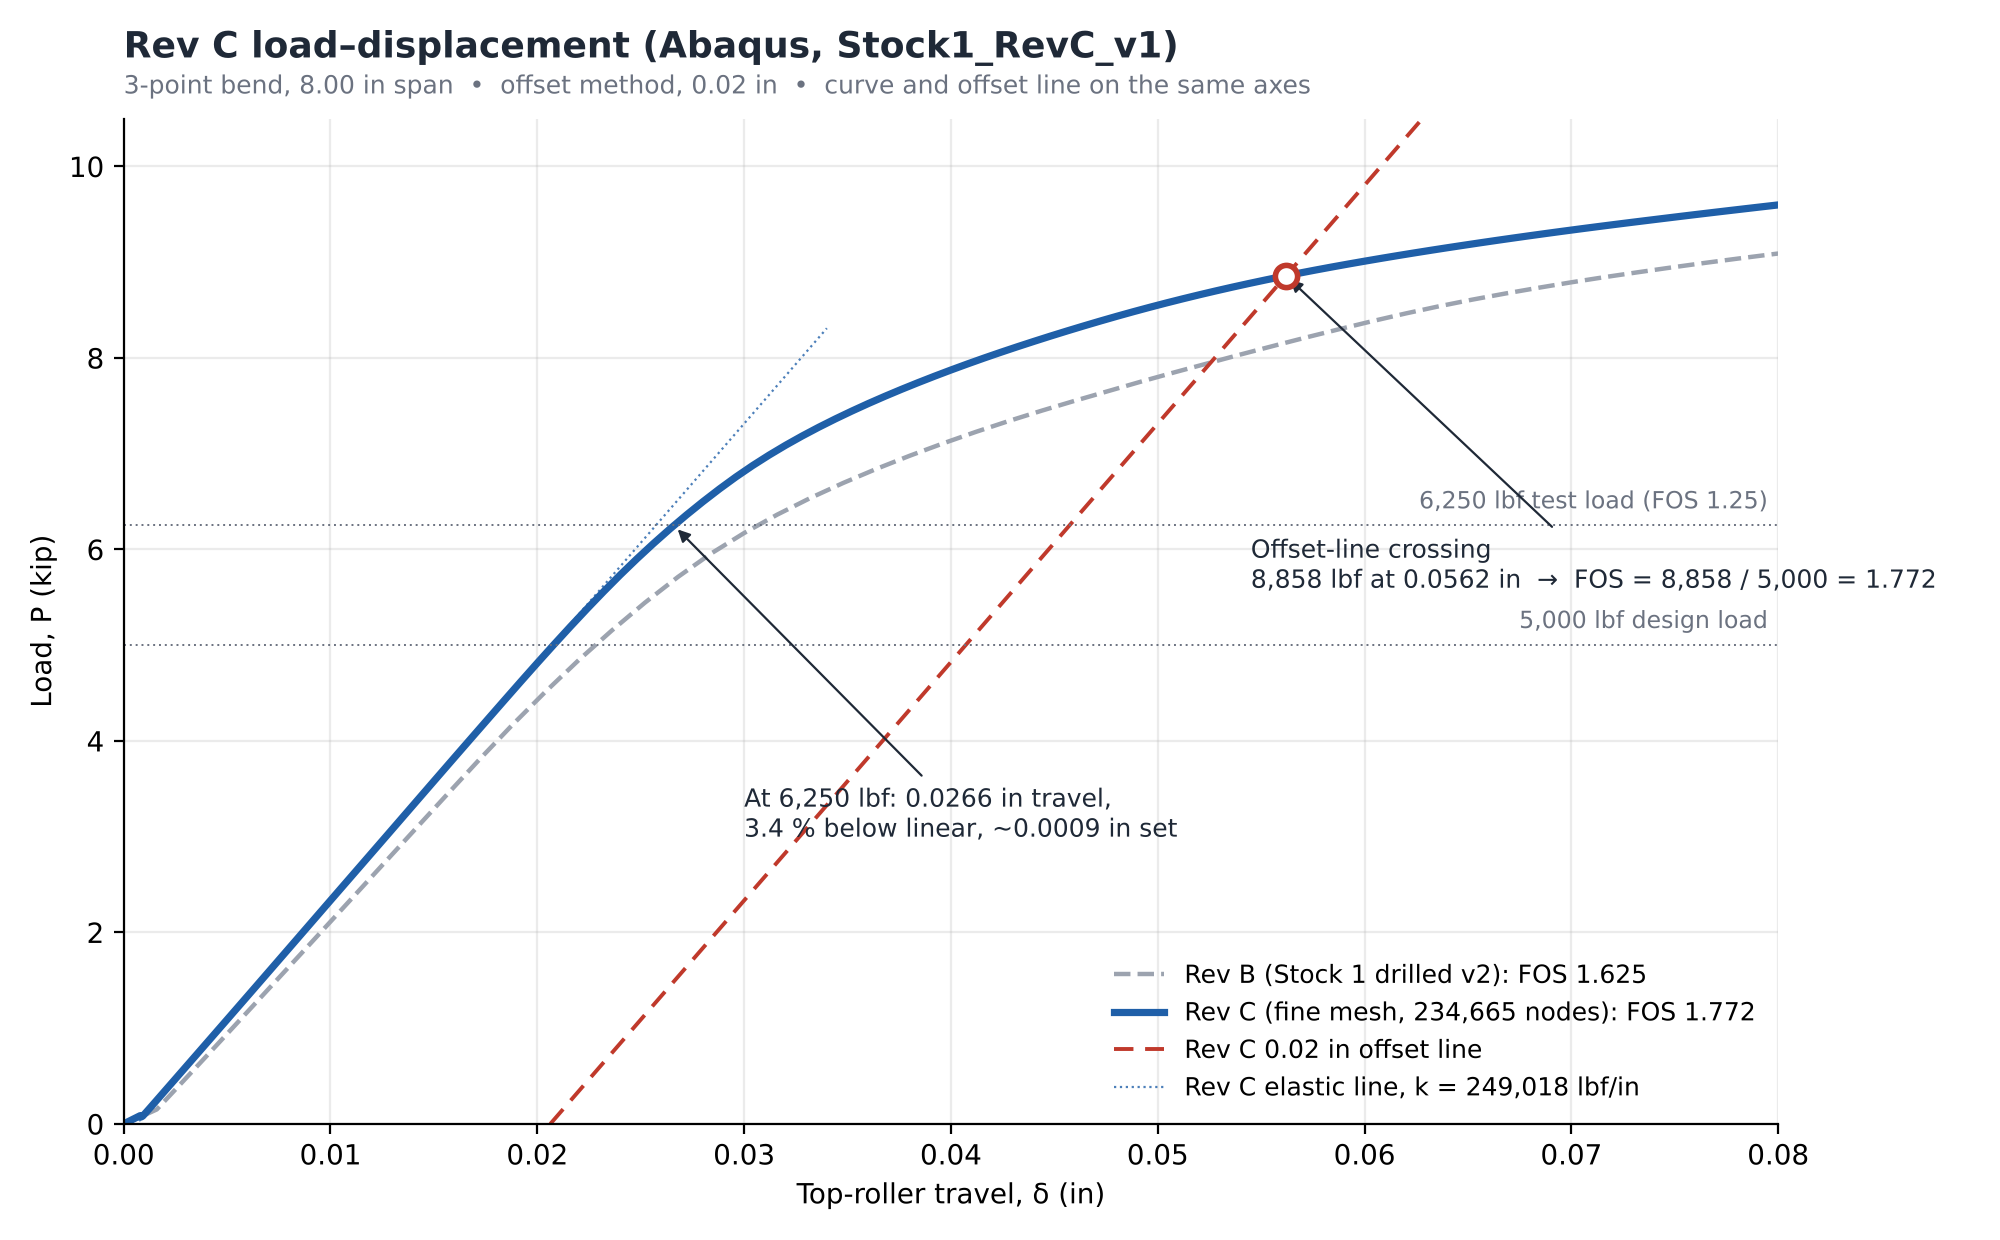
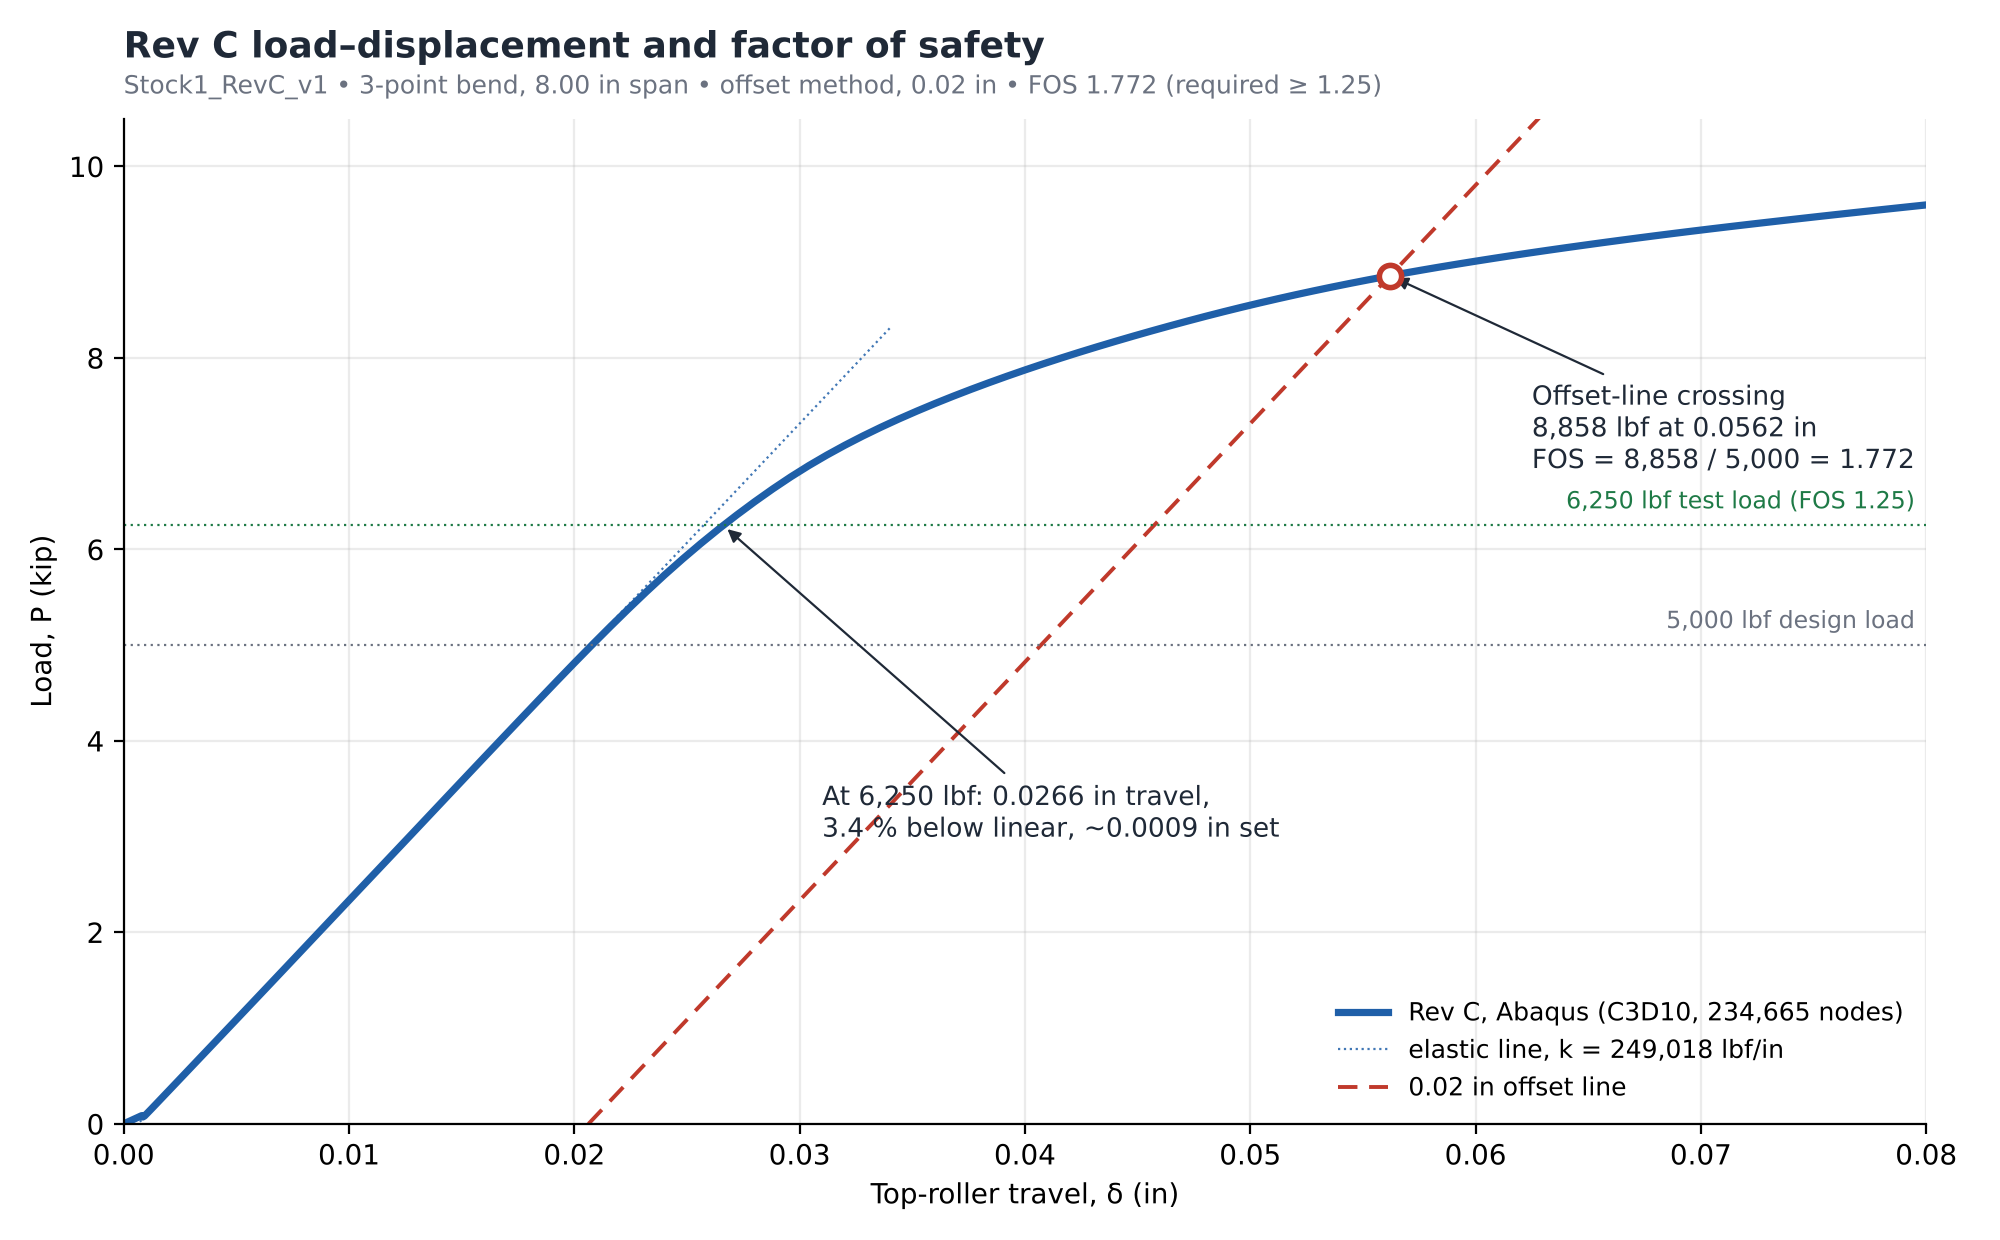
Rev C FoS plot without the earlier designs; add plot_FOS_RevC_v1.py
- results/final_design/Stock1_RevC_v1_LoadDisp.png (+ Final_Design copy):
  Rev C curve only, elastic line, 0.02 in offset line, crossing at
  8,858 lbf (FOS 1.772), 5,000 / 6,250 lbf levels
- abaqus/python/tools/plot_FOS_RevC_v1.py redraws it from the CSV and
  recomputes the offset method
- READMEs updated

Claude-Session: https://claude.ai/code/session_014AVQbbnMuJ5ZJiSA3v4UuR

diff --git a/Final_Design/Scripts/plot_FOS_RevC_v1.py b/Final_Design/Scripts/plot_FOS_RevC_v1.py
@@ -1,0 +1,81 @@
+# -*- coding: utf-8 -*-
+"""
+plot_FOS_RevC_v1.py  --  EMCH 308 Team 6, Rev C load-displacement / FOS plot
+
+Plain Python (numpy + matplotlib), not Abaqus.  Reads the curve that
+FOS_Stock1_RevC_v3.py saved and redraws it on its own: Rev C only, with the
+0.02 in offset line, the crossing, the elastic line and the 5,000 / 6,250 lbf
+levels.  The offset method is recomputed from the CSV (15-45 % of peak fit), so
+the numbers on the plot always match the data.
+
+    python abaqus/python/tools/plot_FOS_RevC_v1.py
+writes results/final_design/Stock1_RevC_v1_LoadDisp.png (and a copy in
+Final_Design/Results/ when that folder exists).
+"""
+import os
+import numpy as np
+import matplotlib
+matplotlib.use('Agg')
+import matplotlib.pyplot as plt
+
+HERE = os.path.dirname(os.path.abspath(__file__))
+ROOT = os.path.normpath(os.path.join(HERE, '..', '..', '..'))
+CSV = os.path.join(ROOT, 'results', 'final_design', 'FOS_Stock1_RevC_v1_LoadDisp.csv')
+OUTS = [os.path.join(ROOT, 'results', 'final_design', 'Stock1_RevC_v1_LoadDisp.png'),
+        os.path.join(ROOT, 'Final_Design', 'Results', 'Stock1_RevC_v1_LoadDisp.png')]
+P_DESIGN, P_TEST, OFFSET = 5000.0, 6250.0, 0.02
+
+d = np.loadtxt(CSV, delimiter=',', skiprows=1)
+x, P = d[:, 0], d[:, 1]
+Pm = P.max()
+m = (P >= 0.15 * Pm) & (P <= 0.45 * Pm) & (np.arange(len(P)) <= P.argmax())
+k, b = np.polyfit(x[m], P[m], 1)
+d0 = -b / k
+g = P - k * (x - d0 - OFFSET)
+i = np.where((g[:-1] > 0) & (g[1:] <= 0))[0][0]
+f = g[i] / (g[i] - g[i + 1])
+P_off, d_off = P[i] + f * (P[i + 1] - P[i]), x[i] + f * (x[i + 1] - x[i])
+fos = P_off / P_DESIGN
+x_t = np.interp(P_TEST, P, x)
+dev = 1 - P_TEST / (k * (x_t - d0))
+pset = x_t - (P_TEST / k + d0)
+
+INK, MUT, BLUE, RED, GREEN = '#1f2937', '#6b7280', '#1f5fa8', '#c0392b', '#1e7a46'
+plt.rcParams.update({'font.family': 'DejaVu Sans', 'font.size': 10})
+fig, ax = plt.subplots(figsize=(10, 6.2), dpi=200)
+ax.plot(x, P / 1000, color=BLUE, lw=2.6, label='Rev C, Abaqus (C3D10, 234,665 nodes)')
+xl = np.linspace(0, 0.034, 20)
+ax.plot(xl, k * (xl - d0) / 1000, color=BLUE, lw=0.8, ls=':', alpha=0.85,
+        label='elastic line, k = {:,.0f} lbf/in'.format(k))
+xo = np.linspace(d0 + OFFSET, 0.08, 50)
+ax.plot(xo, k * (xo - d0 - OFFSET) / 1000, color=RED, lw=1.4, ls=(0, (5, 3)),
+        label='0.02 in offset line')
+for y, t, c in ((P_DESIGN / 1000, '5,000 lbf design load', MUT),
+                (P_TEST / 1000, '6,250 lbf test load (FOS 1.25)', GREEN)):
+    ax.axhline(y, color=c, lw=0.8, ls=(0, (1, 2)))
+    ax.text(0.0795, y + 0.12, t, ha='right', va='bottom', fontsize=8.5, color=c)
+ax.plot([d_off], [P_off / 1000], 'o', ms=8, mfc='white', mec=RED, mew=2, zorder=5)
+ax.annotate('Offset-line crossing\n{:,.0f} lbf at {:.4f} in\nFOS = {:,.0f} / 5,000 = {:.3f}'
+            .format(P_off, d_off, P_off, fos), (d_off, P_off / 1000), (0.0625, 6.85),
+            fontsize=9.5, color=INK, ha='left',
+            arrowprops=dict(arrowstyle='-|>', color=INK, lw=0.8))
+ax.annotate('At 6,250 lbf: {:.4f} in travel,\n{:.1f} % below linear, ~{:.4f} in set'
+            .format(x_t, 100 * dev, pset), (x_t, P_TEST / 1000), (0.031, 3.0),
+            fontsize=9.5, color=INK, arrowprops=dict(arrowstyle='-|>', color=INK, lw=0.8))
+ax.set_xlim(0, 0.08); ax.set_ylim(0, 10.5)
+ax.set_xlabel('Top-roller travel, δ (in)'); ax.set_ylabel('Load, P (kip)')
+ax.set_title('Rev C load–displacement and factor of safety', loc='left', fontsize=13,
+             weight='bold', color=INK, pad=22)
+ax.text(0, 1.025, 'Stock1_RevC_v1 • 3-point bend, 8.00 in span • offset method, 0.02 in '
+        '• FOS {:.3f} (required ≥ 1.25)'.format(fos), transform=ax.transAxes,
+        fontsize=9, color=MUT)
+for s in ('top', 'right'):
+    ax.spines[s].set_visible(False)
+ax.grid(alpha=0.25)
+ax.legend(loc='lower right', frameon=False, fontsize=9)
+fig.tight_layout()
+for o in OUTS:
+    if os.path.isdir(os.path.dirname(o)):
+        fig.savefig(o, facecolor='white')
+        print('saved', o)
+print('k %.0f  P_off %.1f  d_off %.4f  FOS %.3f' % (k, P_off, d_off, fos))

diff --git a/abaqus/python/tools/plot_FOS_RevC_v1.py b/abaqus/python/tools/plot_FOS_RevC_v1.py
@@ -1,0 +1,81 @@
+# -*- coding: utf-8 -*-
+"""
+plot_FOS_RevC_v1.py  --  EMCH 308 Team 6, Rev C load-displacement / FOS plot
+
+Plain Python (numpy + matplotlib), not Abaqus.  Reads the curve that
+FOS_Stock1_RevC_v3.py saved and redraws it on its own: Rev C only, with the
+0.02 in offset line, the crossing, the elastic line and the 5,000 / 6,250 lbf
+levels.  The offset method is recomputed from the CSV (15-45 % of peak fit), so
+the numbers on the plot always match the data.
+
+    python abaqus/python/tools/plot_FOS_RevC_v1.py
+writes results/final_design/Stock1_RevC_v1_LoadDisp.png (and a copy in
+Final_Design/Results/ when that folder exists).
+"""
+import os
+import numpy as np
+import matplotlib
+matplotlib.use('Agg')
+import matplotlib.pyplot as plt
+
+HERE = os.path.dirname(os.path.abspath(__file__))
+ROOT = os.path.normpath(os.path.join(HERE, '..', '..', '..'))
+CSV = os.path.join(ROOT, 'results', 'final_design', 'FOS_Stock1_RevC_v1_LoadDisp.csv')
+OUTS = [os.path.join(ROOT, 'results', 'final_design', 'Stock1_RevC_v1_LoadDisp.png'),
+        os.path.join(ROOT, 'Final_Design', 'Results', 'Stock1_RevC_v1_LoadDisp.png')]
+P_DESIGN, P_TEST, OFFSET = 5000.0, 6250.0, 0.02
+
+d = np.loadtxt(CSV, delimiter=',', skiprows=1)
+x, P = d[:, 0], d[:, 1]
+Pm = P.max()
+m = (P >= 0.15 * Pm) & (P <= 0.45 * Pm) & (np.arange(len(P)) <= P.argmax())
+k, b = np.polyfit(x[m], P[m], 1)
+d0 = -b / k
+g = P - k * (x - d0 - OFFSET)
+i = np.where((g[:-1] > 0) & (g[1:] <= 0))[0][0]
+f = g[i] / (g[i] - g[i + 1])
+P_off, d_off = P[i] + f * (P[i + 1] - P[i]), x[i] + f * (x[i + 1] - x[i])
+fos = P_off / P_DESIGN
+x_t = np.interp(P_TEST, P, x)
+dev = 1 - P_TEST / (k * (x_t - d0))
+pset = x_t - (P_TEST / k + d0)
+
+INK, MUT, BLUE, RED, GREEN = '#1f2937', '#6b7280', '#1f5fa8', '#c0392b', '#1e7a46'
+plt.rcParams.update({'font.family': 'DejaVu Sans', 'font.size': 10})
+fig, ax = plt.subplots(figsize=(10, 6.2), dpi=200)
+ax.plot(x, P / 1000, color=BLUE, lw=2.6, label='Rev C, Abaqus (C3D10, 234,665 nodes)')
+xl = np.linspace(0, 0.034, 20)
+ax.plot(xl, k * (xl - d0) / 1000, color=BLUE, lw=0.8, ls=':', alpha=0.85,
+        label='elastic line, k = {:,.0f} lbf/in'.format(k))
+xo = np.linspace(d0 + OFFSET, 0.08, 50)
+ax.plot(xo, k * (xo - d0 - OFFSET) / 1000, color=RED, lw=1.4, ls=(0, (5, 3)),
+        label='0.02 in offset line')
+for y, t, c in ((P_DESIGN / 1000, '5,000 lbf design load', MUT),
+                (P_TEST / 1000, '6,250 lbf test load (FOS 1.25)', GREEN)):
+    ax.axhline(y, color=c, lw=0.8, ls=(0, (1, 2)))
+    ax.text(0.0795, y + 0.12, t, ha='right', va='bottom', fontsize=8.5, color=c)
+ax.plot([d_off], [P_off / 1000], 'o', ms=8, mfc='white', mec=RED, mew=2, zorder=5)
+ax.annotate('Offset-line crossing\n{:,.0f} lbf at {:.4f} in\nFOS = {:,.0f} / 5,000 = {:.3f}'
+            .format(P_off, d_off, P_off, fos), (d_off, P_off / 1000), (0.0625, 6.85),
+            fontsize=9.5, color=INK, ha='left',
+            arrowprops=dict(arrowstyle='-|>', color=INK, lw=0.8))
+ax.annotate('At 6,250 lbf: {:.4f} in travel,\n{:.1f} % below linear, ~{:.4f} in set'
+            .format(x_t, 100 * dev, pset), (x_t, P_TEST / 1000), (0.031, 3.0),
+            fontsize=9.5, color=INK, arrowprops=dict(arrowstyle='-|>', color=INK, lw=0.8))
+ax.set_xlim(0, 0.08); ax.set_ylim(0, 10.5)
+ax.set_xlabel('Top-roller travel, δ (in)'); ax.set_ylabel('Load, P (kip)')
+ax.set_title('Rev C load–displacement and factor of safety', loc='left', fontsize=13,
+             weight='bold', color=INK, pad=22)
+ax.text(0, 1.025, 'Stock1_RevC_v1 • 3-point bend, 8.00 in span • offset method, 0.02 in '
+        '• FOS {:.3f} (required ≥ 1.25)'.format(fos), transform=ax.transAxes,
+        fontsize=9, color=MUT)
+for s in ('top', 'right'):
+    ax.spines[s].set_visible(False)
+ax.grid(alpha=0.25)
+ax.legend(loc='lower right', frameon=False, fontsize=9)
+fig.tight_layout()
+for o in OUTS:
+    if os.path.isdir(os.path.dirname(o)):
+        fig.savefig(o, facecolor='white')
+        print('saved', o)
+print('k %.0f  P_off %.1f  d_off %.4f  FOS %.3f' % (k, P_off, d_off, fos))

diff --git a/Final_Design/README.md b/Final_Design/README.md
@@ -51,12 +51,13 @@ With setups the sheet does not model (second drill size, flipping between flange
 | | `fix_Stock1_RevC_v1.py` | Warning-free rerun of the v1 model as job `Stock1_RevC_v2` | `abaqus/python/final/` |
 | | `Export_STEP_v4.py` | Writes `cad/USC06_MTC06_IBeam_RevC.step` (inches) after geometry checks | `abaqus/python/final/` |
 | | `make_RevC_drawing_v1.py` · `make_RevC_design_sheet_v1.py` | Generate the manufacturing drawing and the design sheet | `cad/drawings/source/` |
+| | `plot_FOS_RevC_v1.py` | Redraws the FoS plot from the CSV (plain Python) | `abaqus/python/tools/` |
 | | `make_RevC_concept_v2.py` | Draws the concept sheet and recomputes weight, cost, stresses | `cad/drawings/source/` |
 | `Results/` | `FOS_Stock1_RevC_v1.txt` / `_LoadDisp.csv` | FoS, weight, cost and accuracy report; load–displacement data | `results/final_design/` |
-| | `Stock1_RevC_v1_LoadDisp.png` | Load–displacement plot with the offset line (Rev B for comparison) | `results/final_design/` |
+| | `Stock1_RevC_v1_LoadDisp.png` | Load–displacement plot: Rev C, offset line, crossing, 5,000 / 6,250 lbf levels | `results/final_design/` |
 | | `Design_Comparison.png` | Abaqus curves of the earlier designs | `results/` |
 | `Abaqus/` | `Stock1_RevC_v1.cae` / `.jnl` | Rev C Abaqus model | `abaqus/final_design/` |
 | `Abaqus/job/` | `Stock1_RevC_v1.cae` / `.inp` / `.jnl` | Model with its job; input file | `abaqus/final_design/job/` |
 | | `Stock1_RevC_v1_geometry.txt` | CAD volumes and mesh settings read by the FoS script | `abaqus/final_design/job/` |
-| | `Stock1_RevC_v1.odb` | Results, 519 MB: **project drive only** (too large for the free Git LFS quota); regenerate from the `.inp` | `abaqus/final_design/job/` |
+| | `Stock1_RevC_v1.odb` | Results, 519 MB: **local copy only**, here and in `abaqus/final_design/job/` (too large for the free Git LFS quota); regenerate from the `.inp` | `abaqus/final_design/job/` |
 | `CAD/` | `USC06_MTC06_IBeam_RevC.step` | 3D model for MTC (inches) | `cad/` |

diff --git a/README.md b/README.md
@@ -98,7 +98,8 @@ The last fully analysed design. All its files are in [`Old_Designs/RevB_Stock1_D
 │       │                       (FoS, weight and accuracy report)
 │       ├── iterations/         Scripts for every earlier design, incl. Rev B: Stock1_Drilled_v2.py ·
 │       │                       FOS_Stock1_Drilled_v3.py · Export_STEP_v3.py
-│       ├── tools/              Baseline_Stock1_v1.py · FOS_ProjectBeam_v3.py (FoS for any .odb)
+│       ├── tools/              Baseline_Stock1_v1.py · FOS_ProjectBeam_v3.py (FoS for any .odb) ·
+│       │                       plot_FOS_RevC_v1.py (Rev C FoS plot from the CSV, plain Python)
 │       └── fix_history/        Repair scripts for the original model, v1–v5 (see its README)
 ├── results/
 │   ├── Design_Comparison.png   Abaqus load–displacement curves of the earlier designs
